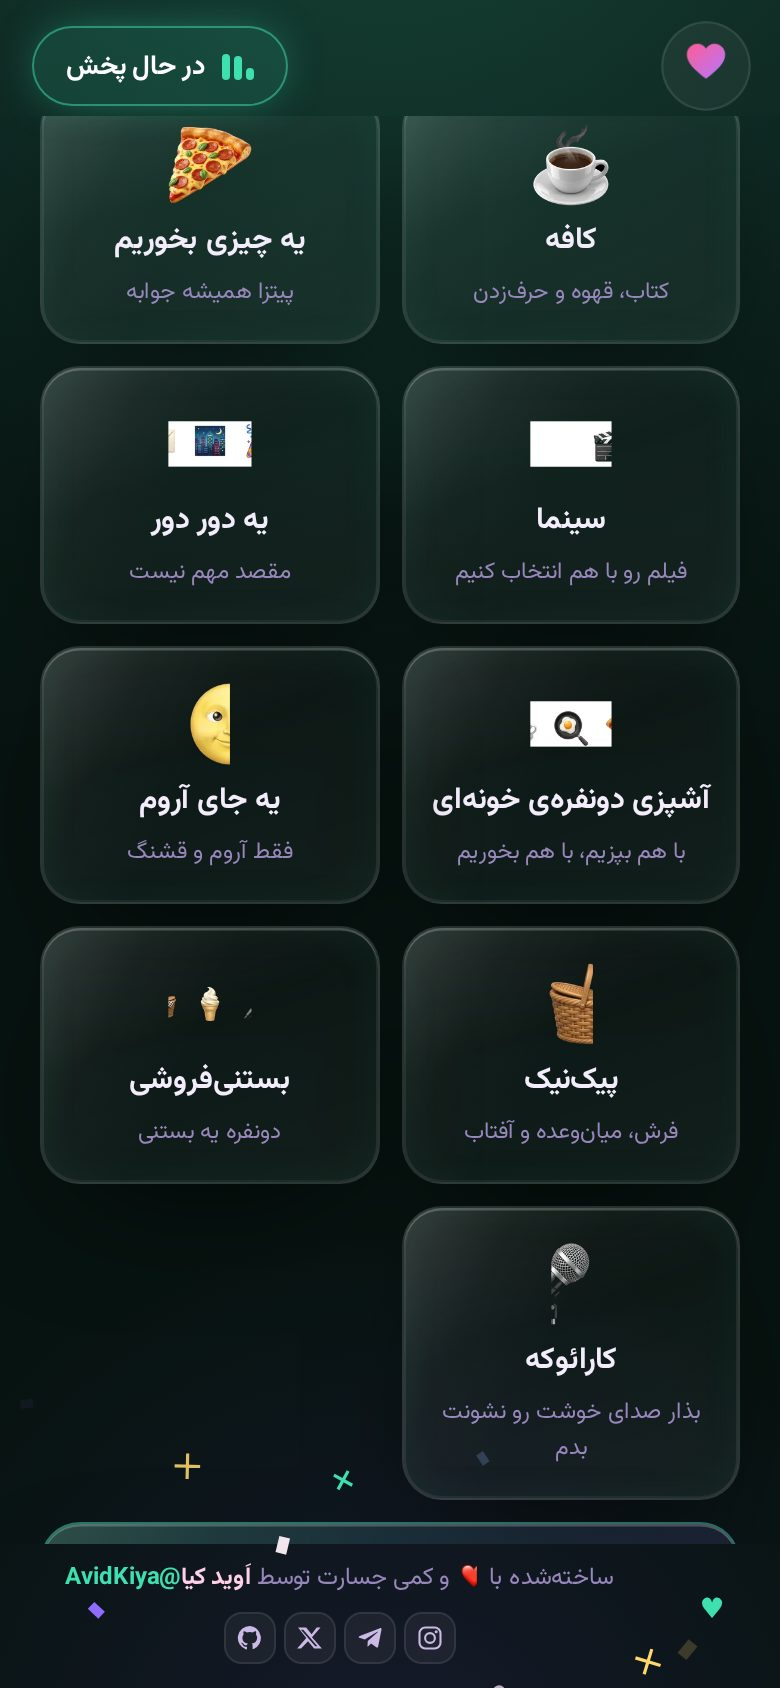
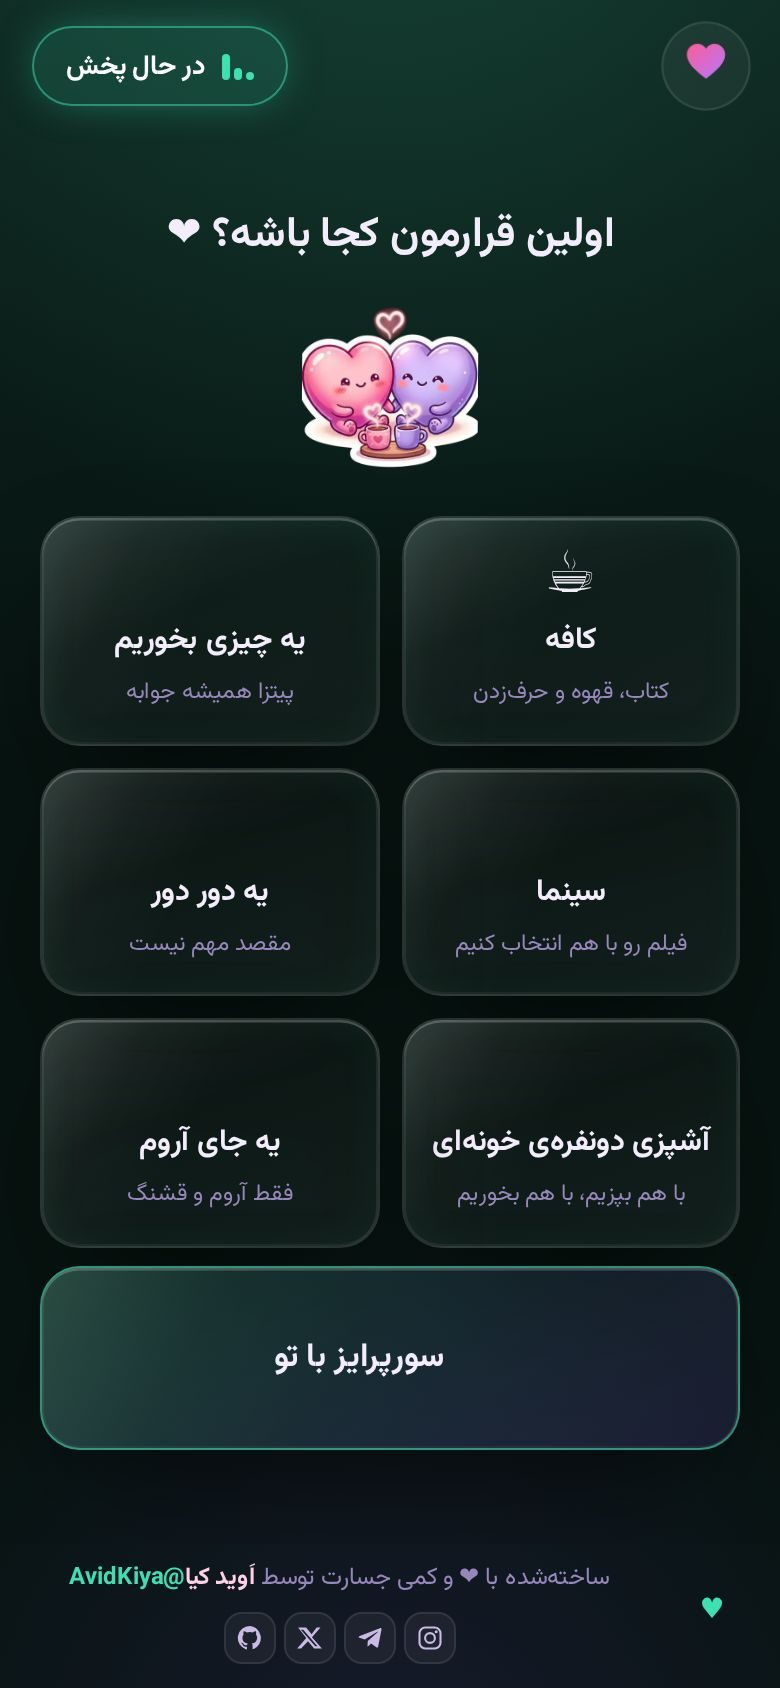
04

diff --git a/README.md b/README.md
@@ -20,7 +20,6 @@
 - 😊 ایموجیها native رندر میشوند — روی آیفون دقیقاً استایل اپل، بدون تصویر اضافه و همیشه سازگار
 - 📸 کارت خروجی کاملاً بازطراحی شد: نور، استیکر بزرگ، کارتهای اطلاعات دوقلو، ایموجیهای تصویری و نوار اعتبار — خروجی PNG تمیز ۱۰۸۰×۱۳۵۰
 - 🔐 پنل مدیریت فقط برای خودت: رمز اصلی از متغیر محیطی `ADMIN_PASSWORD` (در تنظیمات Pages) + قفل ۱۰ دقیقهای بعد از ۸ بار رمز اشتباه + هشدار امنیتی داخل پنل
-- 🧺 پیشنهادهای بیشتر: پیکنیک، بستنیفروشی و کارائوکه به گزینههای قرار اضافه شدند (۱۰ گزینه)
 - 💌 دکمهی «جوابم رو خودم بهت بگم»: او میتواند جوابش را مستقیم در تلگرام تو (پیشفرض @AvidKiya) بفرستت
 - 🔗 لینکها با اسم فارسیِ خام ساخته میشوند (`?name=پری`) — بدون کد و درهمریخته
 
